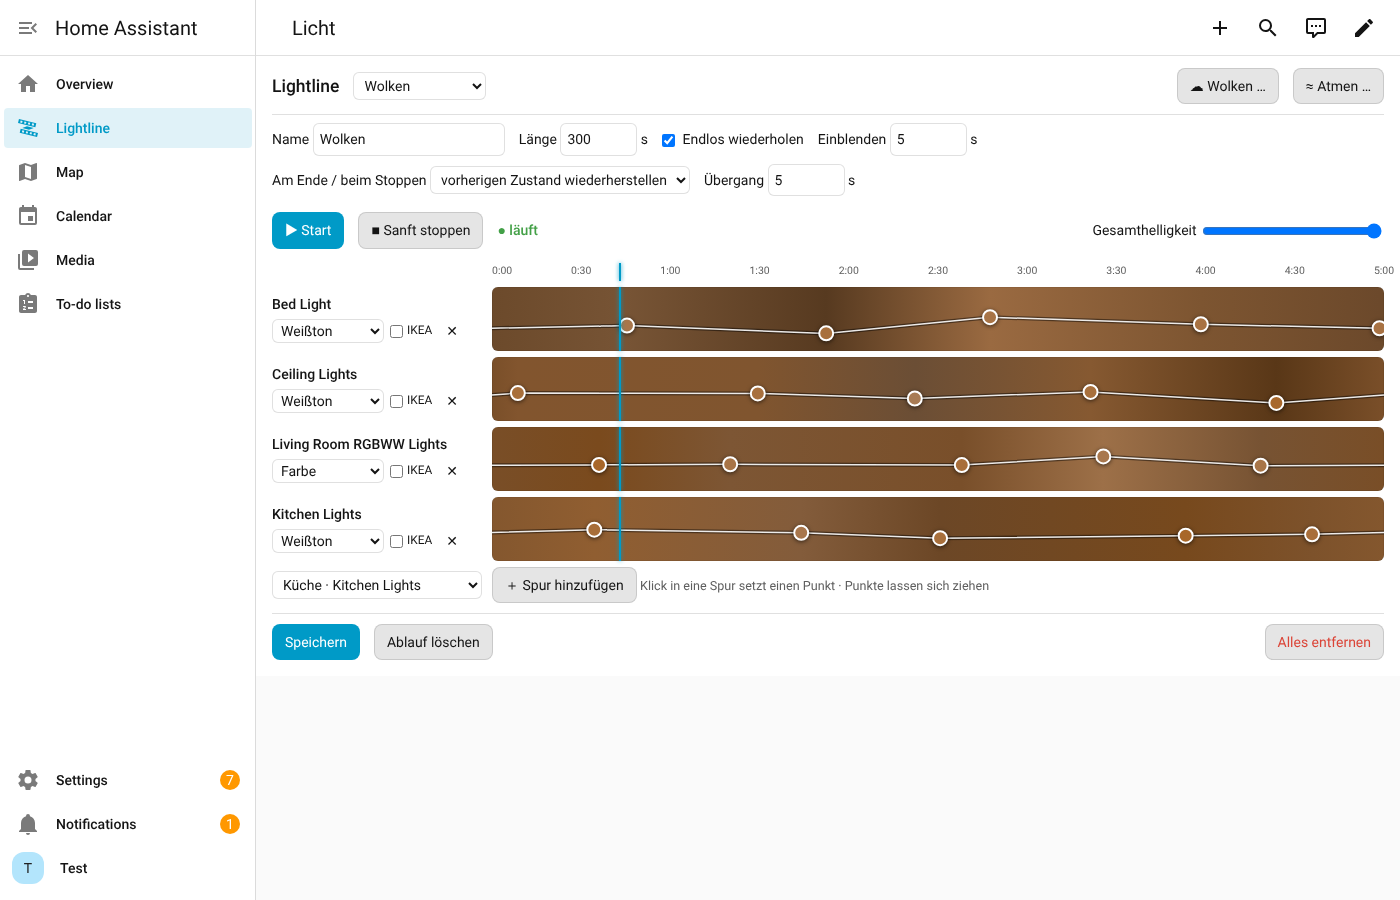
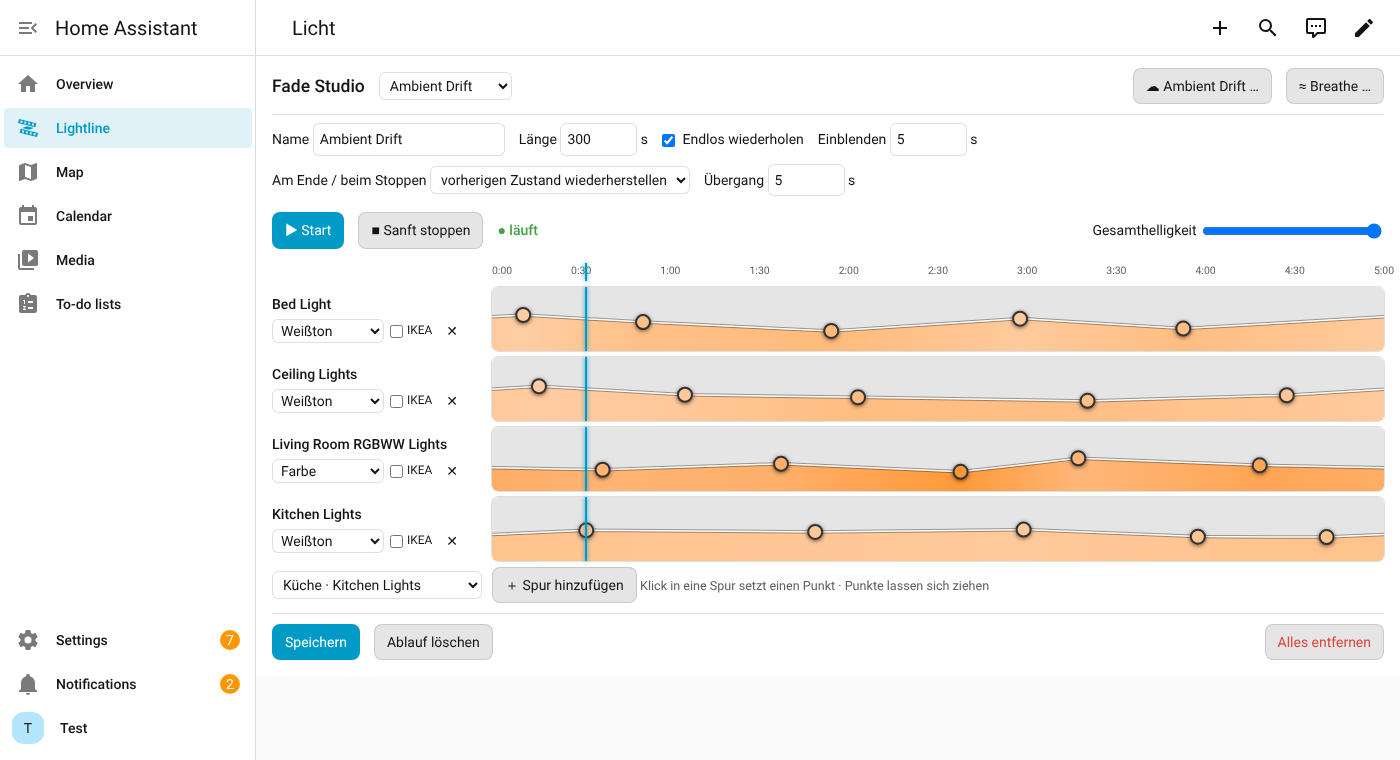
Rename to Fade Studio, templates Ambient Drift/Breathe, envelope-style lanes
- Project, card element, script/helper prefix and label renamed to Fade Studio
- Templates renamed: Ambient Drift (was Wolken), Breathe (was Atmen)
- Script field 'finish' replaces 'beenden', snapshot scene suffix '_before'
- Lanes show the light tone at full strength below the brightness curve
  instead of darkening it (no more brown for warm whites)

Claude-Session: https://claude.ai/code/session_01CXwVFfpeiL3JLinRxw89ZL

diff --git a/dist/fade-studio-card.js b/dist/fade-studio-card.js
@@ -1,14 +1,14 @@
 /*
- * Lightline – Zeitleisten-Editor für sanfte Lichtabläufe in Home Assistant
+ * Fade Studio – Zeitleisten-Editor für sanfte Lichtabläufe in Home Assistant
  *
  * Die Karte ist nur ein Editor. Beim Speichern entstehen ganz normale
  * Home-Assistant-Bausteine (Skript + Zahlen-Helfer), alle mit dem Label
- * "Lightline". Abgespielt wird ausschließlich von Home Assistant selbst.
+ * "Fade Studio". Abgespielt wird ausschließlich von Home Assistant selbst.
  */
-const LL_VERSION = '0.1.0';
-const PREFIX = 'lightline_';
-const LABEL = 'Lightline';
-const SNAP_SUFFIX = '_vorher';
+const FS_VERSION = '0.2.0';
+const PREFIX = 'fade_studio_';
+const LABEL = 'Fade Studio';
+const SNAP_SUFFIX = '_before';
 
 /* ------------------------------------------------------------------ */
 /* Hilfsfunktionen                                                     */
@@ -104,11 +104,11 @@ function stateAt(kfs, L, loop, t) {
   return lerpKf(last, k[0], span > 0 ? (t - last.t) / span : 0, t);
 }
 
-function displayRgb(kf, mode) {
-  let c = mode === 'color' ? hexToRgb(kf.c) : mode === 'ct' ? kelvinToRgb(kf.k) : [255, 214, 170];
-  if (kf.b <= 0) return [24, 24, 28];
-  const f = 0.15 + 0.85 * (kf.b / 100);
-  return c.map((v) => v * f);
+/** Ton in voller Leuchtkraft (Helligkeit wird separat als Kurve gezeigt). */
+function toneRgb(kf, mode) {
+  if (mode === 'color') return hexToRgb(kf.c);
+  if (mode === 'ct') return mixRgb(kelvinToRgb(kf.k), [255, 255, 255], 0.3);
+  return [255, 236, 210];
 }
 
 /* ------------------------------------------------------------------ */
@@ -330,7 +330,7 @@ function buildScript(show) {
   const lights = [...new Set(tracks.map((t) => t.entity))];
   const seq = [
     {
-      if: tpl('{{ beenden | default(false) | bool }}'),
+      if: tpl('{{ finish | default(false) | bool }}'),
       then: [...endActions(show, snap, lights), { stop: 'Beendet' }],
     },
   ];
@@ -343,21 +343,21 @@ function buildScript(show) {
   seq.push({ parallel: tracks.map((t, ti) => trackBranch(show, t, dimmer, ti)) });
   if (!show.loop) seq.push(...endActions(show, snap, lights));
   return {
-    alias: `Lightline: ${show.name}`,
+    alias: `Fade Studio: ${show.name}`,
     description:
-      'Erstellt mit der Lightline-Karte – bitte dort bearbeiten. ' +
-      'Starten: script.turn_on. Sanft beenden: script.turn_on mit variables: {beenden: true}.',
-    icon: show.icon || 'mdi:led-strip-variant',
+      'Erstellt mit der Fade-Studio-Karte – bitte dort bearbeiten. ' +
+      'Starten: script.turn_on. Sanft finish: script.turn_on mit variables: {finish: true}.',
+    icon: show.icon || 'mdi:transition',
     mode: 'restart',
     fields: {
-      beenden: {
-        name: 'Beenden',
-        description: 'An = laufenden Ablauf mit dem eingestellten Ende-Verhalten beenden.',
+      finish: {
+        name: 'Sanft beenden',
+        description: 'An = laufenden Ablauf mit dem eingestellten Ende-Verhalten finish.',
         selector: { boolean: {} },
         default: false,
       },
     },
-    variables: { lightline: { v: 1, editor: LL_VERSION, show } },
+    variables: { fade_studio: { v: 1, editor: FS_VERSION, show } },
     sequence: seq,
   };
 }
@@ -367,7 +367,7 @@ function buildScript(show) {
 /* ------------------------------------------------------------------ */
 const TINTS = ['#ffd2a8', '#ffc4b8', '#ffe2b0', '#f6d0e0', '#ffcf9e'];
 
-function genClouds(hass, eids, p) {
+function genDrift(hass, eids, p) {
   const L = p.cycle;
   const n = Math.max(2, Math.round(p.steps));
   return eids.map((eid, i) => {
@@ -390,7 +390,7 @@ function genClouds(hass, eids, p) {
   });
 }
 
-function genBreath(hass, eids, p) {
+function genBreathe(hass, eids, p) {
   const L = p.period;
   const areas = [...new Set(eids.map((e) => lightInfo(hass, e).area || e))];
   return eids.map((eid) => {
@@ -412,7 +412,7 @@ function genBreath(hass, eids, p) {
 /* ------------------------------------------------------------------ */
 const LANE_H = 64;
 
-class LightlineCard extends HTMLElement {
+class FadeStudioCard extends HTMLElement {
   constructor() {
     super();
     this.attachShadow({ mode: 'open' });
@@ -497,8 +497,8 @@ class LightlineCard extends HTMLElement {
     const id = scriptEid.replace('script.', '');
     try {
       const cfg = await this._hass.callApi('GET', `config/script/config/${id}`);
-      const show = cfg?.variables?.lightline?.show;
-      if (!show) throw new Error('Dieses Skript enthält keine Lightline-Zeitleiste.');
+      const show = cfg?.variables?.fade_studio?.show;
+      if (!show) throw new Error('Dieses Skript enthält keine Fade-Studio-Zeitleiste.');
       this._show = { end: { mode: 'restore', fade: 5, scene: '' }, ...show, id };
       this._sel = null;
       this._dirty = false;
@@ -521,8 +521,8 @@ class LightlineCard extends HTMLElement {
     const created = await this._hass.callWS({
       type: 'config/label_registry/create',
       name: LABEL,
-      icon: 'mdi:led-strip-variant',
-      description: 'Von der Lightline-Karte erzeugt. Entfernen über "Alles entfernen" in der Karte.',
+      icon: 'mdi:transition',
+      description: 'Von der Fade-Studio-Karte erzeugt. Entfernen über "Alles entfernen" in der Karte.',
     });
     return created.label_id;
   }
@@ -610,7 +610,7 @@ class LightlineCard extends HTMLElement {
     const ids = this._showIds().map((e) => e.replace('script.', ''));
     if (
       !confirm(
-        `Alles von Lightline entfernen?\n\n${ids.length} Ablauf/Abläufe mit Skripten, Helligkeitsreglern und dem Label „${LABEL}" werden gelöscht. ` +
+        `Alles von Fade Studio entfernen?\n\n${ids.length} Ablauf/Abläufe mit Skripten, Helligkeitsreglern und dem Label „${LABEL}" werden gelöscht. ` +
           'Danach kannst du die Karte in HACS deinstallieren – es bleibt nichts zurück.'
       )
     )
@@ -639,11 +639,11 @@ class LightlineCard extends HTMLElement {
     const e = this._scriptEid();
     if (!e) return this._setMsg('Bitte zuerst speichern.');
     if (this._dirty) this._setMsg('Achtung: Es läuft die zuletzt gespeicherte Fassung.');
-    this._hass.callService('script', 'turn_on', { entity_id: e, variables: { beenden: false } });
+    this._hass.callService('script', 'turn_on', { entity_id: e, variables: { finish: false } });
   }
   _stop() {
     const e = this._scriptEid();
-    if (e) this._hass.callService('script', 'turn_on', { entity_id: e, variables: { beenden: true } });
+    if (e) this._hass.callService('script', 'turn_on', { entity_id: e, variables: { finish: true } });
   }
   _setDimmer(v) {
     const d = `input_number.${this._show.id}_dimmer`;
@@ -729,14 +729,14 @@ class LightlineCard extends HTMLElement {
       <style>${STYLE}</style>
       <ha-card>
         <div class="bar">
-          <span class="title">Lightline</span>
+          <span class="title">Fade Studio</span>
           <select id="showSel">
             <option value="">＋ Neuer Ablauf</option>
-            ${ids.map((e) => `<option value="${e}" ${e === this._scriptEid() ? 'selected' : ''}>${esc(h.states[e].attributes.friendly_name?.replace(/^Lightline: /, '') || e)}</option>`).join('')}
+            ${ids.map((e) => `<option value="${e}" ${e === this._scriptEid() ? 'selected' : ''}>${esc(h.states[e].attributes.friendly_name?.replace(/^Fade Studio: /, '') || e)}</option>`).join('')}
           </select>
           <span class="grow"></span>
-          <button data-gen="clouds" title="Vorlage: ruhige Wolken aus warmen und kühleren Weißtönen">☁ Wolken …</button>
-          <button data-gen="breath" title="Vorlage: sanftes Atmen/Pulsieren, als Welle durch die Räume">≈ Atmen …</button>
+          <button data-gen="drift" title="Vorlage: langsames, zeitversetztes Gleiten zwischen warmen und kühleren Tönen">☁ Ambient Drift …</button>
+          <button data-gen="breathe" title="Vorlage: sanftes Heller- und Dunklerwerden, als Welle durch die Räume">≈ Breathe …</button>
         </div>
 
         <div class="props">
@@ -801,7 +801,7 @@ class LightlineCard extends HTMLElement {
               </div>`;
             })
             .join('')}
-          ${s.tracks.length ? '' : `<div class="empty">Noch keine Spuren. Füge unten eine Lampe hinzu – oder starte mit einer Vorlage (☁ Wolken / ≈ Atmen).</div>`}
+          ${s.tracks.length ? '' : `<div class="empty">Noch keine Spuren. Füge unten eine Lampe hinzu – oder starte mit einer Vorlage (☁ Ambient Drift / ≈ Breathe).</div>`}
           <div class="row add">
             <div class="lab"><select id="addSel">${lightOpts('')}</select></div>
             <div><button id="addTrack">＋ Spur hinzufügen</button> <span class="hint">Klick in eine Spur setzt einen Punkt · Punkte lassen sich ziehen</span></div>
@@ -815,7 +815,7 @@ class LightlineCard extends HTMLElement {
           <button id="delete">${s.id ? 'Ablauf löschen' : 'Verwerfen'}</button>
           <span id="msg" class="msg">${esc(this._msg)}</span>
           <span class="grow"></span>
-          <button id="removeAll" class="danger" title="Löscht alle von Lightline erzeugten Skripte, Helfer und das Label">Alles entfernen</button>
+          <button id="removeAll" class="danger" title="Löscht alle von Fade Studio erzeugten Skripte, Helfer und das Label">Alles entfernen</button>
         </div>
         ${this._gen ? this._genHtml(lights) : ''}
       </ha-card>`;
@@ -863,9 +863,9 @@ class LightlineCard extends HTMLElement {
       `<label>${label} <input data-gp="${k}" type="number" min="${min}" max="${max}" step="${step}" value="${p[k]}"> ${unit}</label>`;
     const areas = [...new Set(lights.map((l) => l.area).filter(Boolean))];
     return `<div class="overlay"><div class="dialog">
-      <h3>${g.type === 'clouds' ? '☁ Wolken' : '≈ Atmen'}</h3>
+      <h3>${g.type === 'drift' ? '☁ Ambient Drift' : '≈ Breathe'}</h3>
       <p class="hint">${
-        g.type === 'clouds'
+        g.type === 'drift'
           ? 'Jede Lampe gleitet langsam und zeitversetzt zwischen warmen und etwas kühleren Tönen, hell und dunkel. Benachbarte Lampen sind nie gleich – wie ziehende Wolken.'
           : 'Alle Lampen werden sanft heller und dunkler, ohne ihre Farbe zu ändern. Mit „Versatz je Raum" läuft das Atmen als Welle durch die Wohnung.'
       }</p>
@@ -880,7 +880,7 @@ class LightlineCard extends HTMLElement {
       </div>
       <div class="genparams">
         ${
-          g.type === 'clouds'
+          g.type === 'drift'
             ? num('cycle', 'Zykluslänge', 's', 30, 3600, 10) +
               num('steps', 'Wechsel pro Zyklus', '', 2, 20) +
               num('kMin', 'Wärmster Ton', 'K', 1800, 6500, 50) +
@@ -919,20 +919,26 @@ class LightlineCard extends HTMLElement {
       const endKf = s.loop ? { ...stateAt(tr.kfs, L, true, L - 0.0001), t: L } : { ...k[k.length - 1], t: L };
       const pts = [...k, endKf];
       const stops = pts
-        .map((p) => `<stop offset="${(p.t / L) * 100}%" stop-color="${rgbToHex(displayRgb(p, tr.mode))}"/>`)
+        .map((p) => `<stop offset="${(p.t / L) * 100}%" stop-color="${rgbToHex(toneRgb(p, tr.mode))}"/>`)
         .join('');
       const poly = pts.map((p) => `${x(p.t).toFixed(1)},${y(p.b).toFixed(1)}`).join(' ');
+      // Nur die Fläche unterhalb der Helligkeitskurve zeigt den Lichtton (wie eine Hüllkurve).
+      const fill = `0,${H} ${poly} ${W},${H}`;
       const circles = tr.kfs
         .map((kf, ki) => {
           const selected = this._sel && this._sel.ti === ti && this._sel.ki === ki;
-          return `<circle class="kf ${selected ? 'sel' : ''}" data-ki="${ki}" cx="${x(kf.t)}" cy="${y(kf.b)}" r="${selected ? 9 : 7}" fill="${rgbToHex(displayRgb({ ...kf, b: Math.max(kf.b, 60) }, tr.mode))}"/>`;
+          return `<circle class="kf ${selected ? 'sel' : ''}" data-ki="${ki}" cx="${x(kf.t)}" cy="${y(kf.b)}" r="${selected ? 9 : 7}" fill="${rgbToHex(toneRgb(kf, tr.mode))}"/>`;
         })
         .join('');
       lane.innerHTML = `<svg width="${W}" height="${H}">
         <defs><linearGradient id="g${ti}">${stops}</linearGradient></defs>
-        <rect class="bg" x="0" y="0" width="${W}" height="${H}" rx="6" fill="url(#g${ti})"/>
-        <polyline points="${poly}" fill="none" stroke="rgba(0,0,0,.45)" stroke-width="4"/>
-        <polyline points="${poly}" fill="none" stroke="rgba(255,255,255,.9)" stroke-width="1.5"/>
+        <clipPath id="c${ti}"><rect x="0" y="0" width="${W}" height="${H}" rx="6"/></clipPath>
+        <g clip-path="url(#c${ti})">
+          <rect class="bg" x="0" y="0" width="${W}" height="${H}"/>
+          <polygon points="${fill}" fill="url(#g${ti})"/>
+        </g>
+        <polyline points="${poly}" fill="none" stroke="rgba(0,0,0,.35)" stroke-width="3.5"/>
+        <polyline points="${poly}" fill="none" stroke="#fff" stroke-width="1.5"/>
         ${circles}
       </svg><div class="playhead"></div>`;
       const svg = lane.querySelector('svg');
@@ -1120,7 +1126,7 @@ class LightlineCard extends HTMLElement {
           type,
           lights: current,
           p:
-            type === 'clouds'
+            type === 'drift'
               ? { cycle: 300, steps: 5, kMin: 2200, kMax: 3400, bMin: 15, bMax: 60, tint: false }
               : { period: 10, depth: 30, base: 70, wave: 2 },
         };
@@ -1150,16 +1156,16 @@ class LightlineCard extends HTMLElement {
       on('#genOk', 'click', () => {
         const g = this._gen;
         if (!g.lights.length) return alert('Bitte mindestens eine Lampe wählen.');
-        if (g.type === 'clouds') {
+        if (g.type === 'drift') {
           if (g.p.kMin > g.p.kMax) [g.p.kMin, g.p.kMax] = [g.p.kMax, g.p.kMin];
           if (g.p.bMin > g.p.bMax) [g.p.bMin, g.p.bMax] = [g.p.bMax, g.p.bMin];
           s.length = g.p.cycle;
-          s.tracks = genClouds(this._hass, g.lights, g.p);
-          if (s.name === 'Neuer Ablauf') s.name = 'Wolken';
+          s.tracks = genDrift(this._hass, g.lights, g.p);
+          if (s.name === 'Neuer Ablauf') s.name = 'Ambient Drift';
         } else {
           s.length = g.p.period;
-          s.tracks = genBreath(this._hass, g.lights, g.p);
-          if (s.name === 'Neuer Ablauf') s.name = 'Atmen';
+          s.tracks = genBreathe(this._hass, g.lights, g.p);
+          if (s.name === 'Neuer Ablauf') s.name = 'Breathe';
         }
         s.loop = true;
         this._gen = null;
@@ -1206,8 +1212,9 @@ const STYLE = `
   .small { font-size: .85em; }
   .lane { position: relative; height: ${LANE_H}px; min-width: 0; touch-action: none; }
   .lane svg { display: block; cursor: crosshair; position: absolute; left: 0; top: 0; }
-  .lane .bg { stroke: var(--divider-color, #ccc); }
-  .kf { stroke: #fff; stroke-width: 2; cursor: grab; filter: drop-shadow(0 1px 2px rgba(0,0,0,.6)); }
+  .lane .bg { fill: var(--secondary-background-color, #e8e8ec); }
+  .lane svg { border-radius: 6px; outline: 1px solid var(--divider-color, #ccc); }
+  .kf { stroke: #333; stroke-width: 2; cursor: grab; filter: drop-shadow(0 1px 2px rgba(0,0,0,.6)); }
   .kf.sel { stroke: var(--primary-color, #03a9f4); stroke-width: 3; }
   .ruler { margin-bottom: 0; }
   .rulerlane { height: 18px; }
@@ -1238,15 +1245,15 @@ const STYLE = `
   }
 `;
 
-customElements.define('lightline-card', LightlineCard);
+customElements.define('fade-studio-card', FadeStudioCard);
 window.customCards = window.customCards || [];
 window.customCards.push({
-  type: 'lightline-card',
-  name: 'Lightline',
+  type: 'fade-studio-card',
+  name: 'Fade Studio',
   description: 'Zeitleisten-Editor für sanfte, animierte Lichtabläufe',
   preview: false,
 });
-if (typeof window.document !== 'undefined') console.info(`%c LIGHTLINE %c ${LL_VERSION} `, 'background:#ff9f43;color:#000', 'background:#333;color:#fff');
+if (typeof window.document !== 'undefined') console.info(`%c FADE STUDIO %c ${FS_VERSION} `, 'background:#ff9f43;color:#000', 'background:#333;color:#fff');
 
 // Für Tests in Node
-if (typeof module !== 'undefined') module.exports = { buildScript, compileTrack, normalizeKfs, stateAt, genClouds, genBreath };
+if (typeof module !== 'undefined') module.exports = { buildScript, compileTrack, normalizeKfs, stateAt, genDrift, genBreathe };

diff --git a/README.md b/README.md
@@ -1,4 +1,4 @@
-# Lightline
+# Fade Studio
 
 Sanfte, animierte Lichtabläufe für Home Assistant – geplant auf einer Zeitleiste mit einer Spur pro Lampe, wie in einem Videoschnittprogramm.
 
@@ -6,13 +6,13 @@ Sanfte, animierte Lichtabläufe für Home Assistant – geplant auf einer Zeitle
 
 ## Idee
 
-Lightline ist **nur ein Editor** (eine Dashboard-Karte). Beim Speichern entstehen ganz normale Home-Assistant-Bausteine:
+Fade Studio ist **nur ein Editor** (eine Dashboard-Karte). Beim Speichern entstehen ganz normale Home-Assistant-Bausteine:
 
 | Was | Wofür |
 |---|---|
-| `script.lightline_<name>` | spielt den Ablauf ab (die Zeitleiste steckt als `variables` im Skript) |
-| `input_number.lightline_<name>_dimmer` | Gesamthelligkeit des Ablaufs – alle Lampen im Verhältnis |
-| Label **Lightline** | markiert alles, was die Karte erzeugt hat |
+| `script.fade_studio_<name>` | spielt den Ablauf ab (die Zeitleiste steckt als `variables` im Skript) |
+| `input_number.fade_studio_<name>_dimmer` | Gesamthelligkeit des Ablaufs – alle Lampen im Verhältnis |
+| Label **Fade Studio** | markiert alles, was die Karte erzeugt hat |
 
 Abgespielt wird ausschließlich von Home Assistant selbst. Jeder Abschnitt der Zeitleiste ist **ein** `light.turn_on` mit `transition` – die Lampe (Hue, Zigbee, Matter) überblendet selbst. Das ist weich und belastet das Funknetz kaum.
 
@@ -23,7 +23,7 @@ Abgespielt wird ausschließlich von Home Assistant selbst. Jeder Abschnitt der Z
 - **IKEA-Modus**: erst Farbe, dann Helligkeit (für Lampen, die beides nicht gleichzeitig überblenden)
 - Endlosschleife (nahtlos), Einblenden, Ende-Verhalten: vorherigen Zustand wiederherstellen, halten, ausblenden, Szene
 - Gesamthelligkeit live regelbar – ohne Sprung (Restzeit wird neu berechnet)
-- Vorlagen **☁ Wolken** und **≈ Atmen** (als Welle durch die Räume)
+- Vorlagen **☁ Ambient Drift** (ruhiges, zeitversetztes Gleiten) und **≈ Breathe** (sanftes Pulsieren, als Welle durch die Räume)
 - „An Lampe zeigen“ für einzelne Punkte
 - **Alles entfernen**: löscht alle Skripte, Helfer und das Label
 
@@ -31,17 +31,17 @@ Abgespielt wird ausschließlich von Home Assistant selbst. Jeder Abschnitt der Z
 
 ### HACS (benutzerdefiniertes Repository)
 1. HACS → ⋮ → *Benutzerdefinierte Repositories* → URL dieses Repos, Typ **Dashboard**
-2. „Lightline“ installieren, Browser neu laden
+2. „Fade Studio“ installieren, Browser neu laden
 
 ### Manuell
-1. `dist/lightline-card.js` nach `/config/www/lightline-card.js` kopieren
-2. Einstellungen → Dashboards → ⋮ → *Ressourcen* → `/local/lightline-card.js`, Typ *JavaScript-Modul*
+1. `dist/fade-studio-card.js` nach `/config/www/fade-studio-card.js` kopieren
+2. Einstellungen → Dashboards → ⋮ → *Ressourcen* → `/local/fade-studio-card.js`, Typ *JavaScript-Modul*
 
 ### Karte anlegen
 Einstellungen → Dashboards → *Dashboard hinzufügen* („Neues Dashboard von Grund auf“, z. B. „Licht-Abläufe“) → Ansicht bearbeiten → Ansichtstyp **Panel (einzelne Karte)** → Karte hinzufügen → *Manuell*:
 
 ```yaml
-type: custom:lightline-card
+type: custom:fade-studio-card
 ```
 
 Speichern erfordert Administratorrechte.
@@ -52,20 +52,20 @@ Speichern erfordert Administratorrechte.
 # starten (z. B. in einer Automation)
 action: script.turn_on
 target:
-  entity_id: script.lightline_wolken
+  entity_id: script.fade_studio_ambient_drift
 
 # sanft beenden (mit dem eingestellten Ende-Verhalten)
 action: script.turn_on
 target:
-  entity_id: script.lightline_wolken
+  entity_id: script.fade_studio_ambient_drift
 data:
   variables:
-    beenden: true
+    finish: true
 
 # Gesamthelligkeit
 action: input_number.set_value
 target:
-  entity_id: input_number.lightline_wolken_dimmer
+  entity_id: input_number.fade_studio_ambient_drift_dimmer
 data:
   value: 40
 ```
@@ -83,5 +83,5 @@ Danach bleibt nichts zurück.
 
 - Nach einem Neustart von Home Assistant laufen Abläufe nicht automatisch weiter (Automation mit `homeassistant`-Start-Trigger hilft).
 - Der Schnappschuss für „vorherigen Zustand wiederherstellen“ überlebt keinen Neustart.
-- Sehr kurze Abschnitte (< 2 s) mit vielen Lampen können Hue-Bridge/Zigbee überlasten. Lightline ist für ruhige Abläufe gedacht.
+- Sehr kurze Abschnitte (< 2 s) mit vielen Lampen können Hue-Bridge/Zigbee überlasten. Fade Studio ist für ruhige Abläufe gedacht.
 - Gespeichert wird über dieselbe Schnittstelle, die der Skript-Editor von Home Assistant nutzt.
